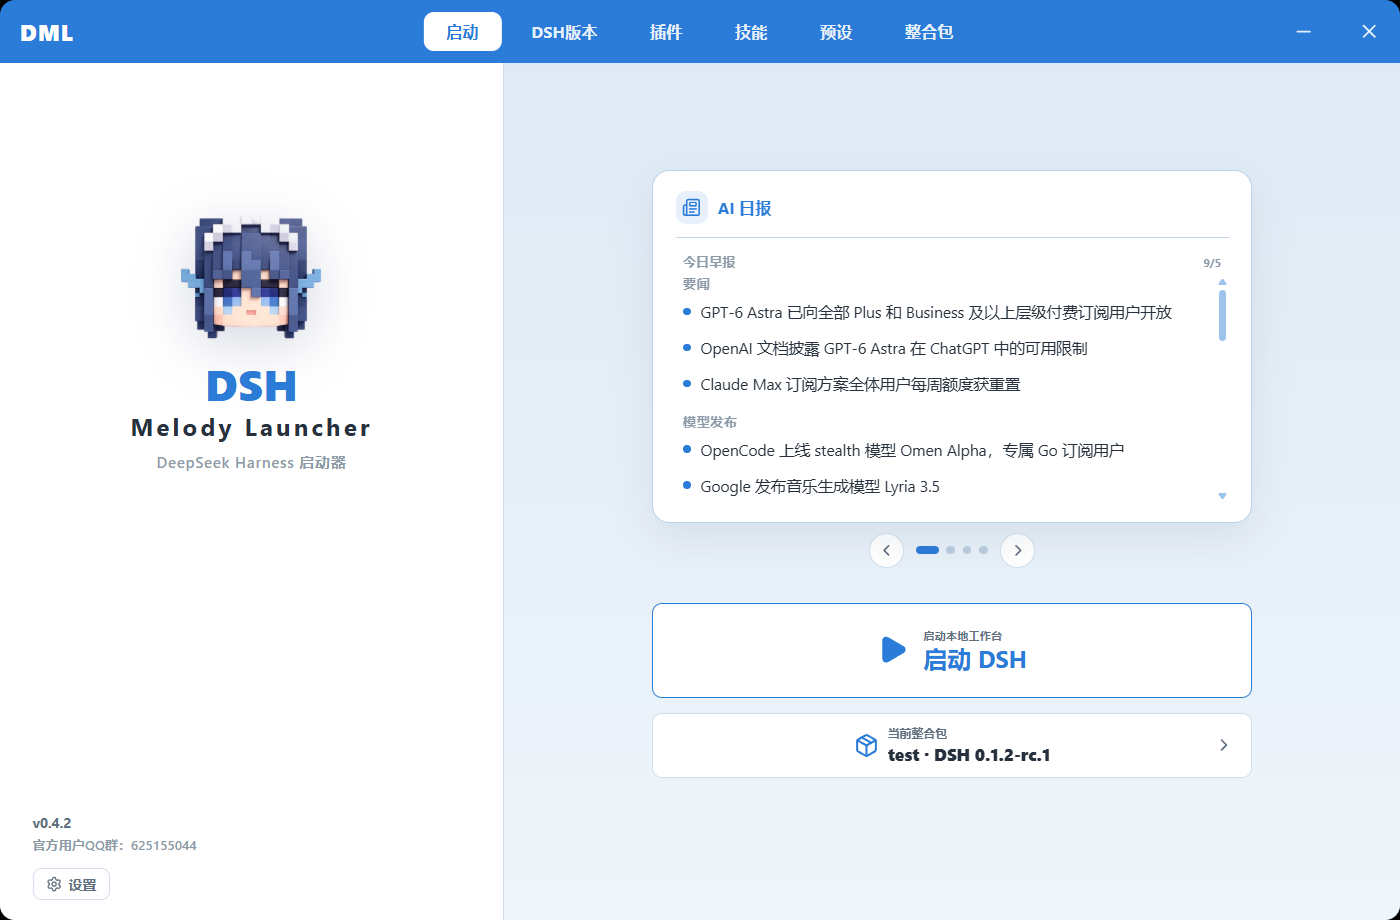
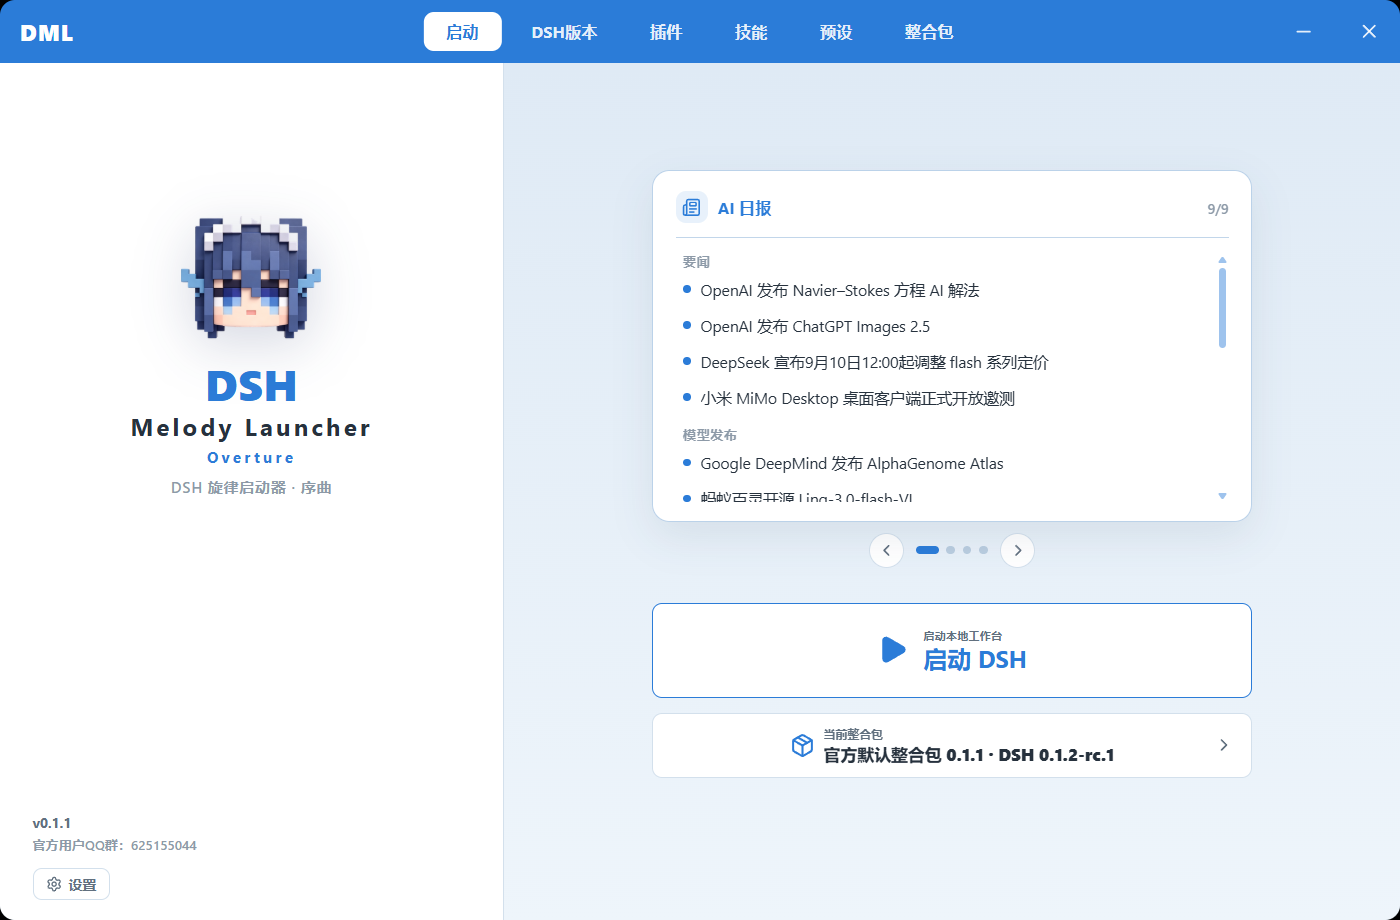
docs: v0.1.1 中英 README 重写（官方默认整合包/快照搬运/Office 技能/分段按钮叙事）+ 9 张真机新截图替换旧图

diff --git a/README.md b/README.md
@@ -6,7 +6,7 @@
 
 **DSH-Melody-Launcher: Overture —— 面向 [DeepSeek Harness](https://github.com/deepseek-ai/deepseek-harness) 的 Windows 桌面启动器（C 端分支）**
 
-以「整合包」为核心：每个整合包都是一套**真隔离环境**，版本、插件、技能、预设互不串扰，下载即用、无需预装 Node.js。
+下载一个 exe，首启自动带入「官方默认整合包」：DSH 本体、Web 全家桶界面、Office 文档技能全部就位，点「启动 DSH」就能对话、做 PPT、写周报 —— 无需预装任何东西。
 
 <br />
 
@@ -14,7 +14,7 @@
 [![Build](https://img.shields.io/github/actions/workflow/status/Miyazawai/DSH-Melody-Launcher-Overture/build.yml?branch=main&style=for-the-badge&logo=githubactions&logoColor=white&label=build)](https://github.com/Miyazawai/DSH-Melody-Launcher-Overture/actions/workflows/build.yml)
 [![Platform](https://img.shields.io/badge/Platform-Windows%20x64-0078D6?style=for-the-badge&logo=windows&logoColor=white)](https://github.com/Miyazawai/DSH-Melody-Launcher-Overture/releases)
 [![Upstream](https://img.shields.io/badge/上游-rirko%2Fdsh--melody--launcher-6C7BFF?style=for-the-badge&logo=github&logoColor=white)](https://github.com/rirko/dsh-melody-launcher)
-[![Tests](https://img.shields.io/badge/tests-692%20passing-6E9F18?style=for-the-badge&logo=vitest&logoColor=white)](https://github.com/Miyazawai/DSH-Melody-Launcher-Overture)
+[![Tests](https://img.shields.io/badge/tests-728%20passing-6E9F18?style=for-the-badge&logo=vitest&logoColor=white)](https://github.com/Miyazawai/DSH-Melody-Launcher-Overture)
 
 [![Electron](https://img.shields.io/badge/Electron-43-47848F?style=flat-square&logo=electron&logoColor=white)](https://www.electronjs.org/)
 [![React](https://img.shields.io/badge/React-19-61DAFB?style=flat-square&logo=react&logoColor=black)](https://react.dev/)
@@ -29,7 +29,7 @@
 ---
 
 > [!NOTE]
-> **关于本仓库**：「序曲（Overture）」是 [rirko/dsh-melody-launcher](https://github.com/rirko/dsh-melody-launcher) 的 **C 端分支**，对应「暴力整合包模式」产品线。上游仓库是启动器的主线；本分支聚焦**个人玩家的整合包体验**——零包引导、按包隔离、一键启动，玩法上更「开箱即玩」。架构与词汇表见上游主线，本分支的增量决策记录在各提交与 `CONTEXT.md`。
+> **关于本仓库**：「序曲（Overture）」是 [rirko/dsh-melody-launcher](https://github.com/rirko/dsh-melody-launcher) 的 **C 端分支**，对应「暴力整合包模式」产品线。上游仓库是启动器的主线；本分支聚焦**个人玩家的整合包体验**——开箱即玩、按包隔离、整包搬运。架构与词汇表见上游主线，本分支的增量决策记录在 `CONTEXT.md` 与 [CHANGELOG.md](CHANGELOG.md)。
 
 ---
 
@@ -37,63 +37,73 @@
 
 **DSH 旋律启动器：序曲** 把 DeepSeek Harness（DSH）的下载、部署、插件管理和启动流程收拢到一个图形界面里。交互方式参考《我的世界》**忘却的旋律启动器**：在真正启动之前，先在一个地方把版本、插件、技能、预设都安排妥当。
 
-「序曲」这一版的核心概念是**整合包（Modpack）**：
+「序曲」的核心概念是**整合包（Modpack）**：
 
-> 每个整合包 = 一套真隔离环境（DSH 版本 + 插件 + 技能 + 预设 + 配置 + 会话），互不串扰。你可以同时养着「稳定工作包」和「尝鲜测试包」，随点随切。
+> 每个整合包 = 一套真隔离环境（DSH 版本 + 插件 + 技能 + 预设 + 配置 + 会话），互不串扰。你可以同时养着「稳定工作包」和「尝鲜测试包」，随点随切；还能把整包发给朋友，对方导入即可启动。
 
 | 原本要做的事 | 用启动器之后 |
 | --- | --- |
-| 装 Node.js → 装 npm → `npx @deepseek-ai/dsh` | 下载一个 exe，点「下载安装 DSH」 |
-| 手改 `.credentials.yaml` 填 API Key | 界面里输入，自动写入并设为 0600 权限 |
+| 装 Node.js → 装 npm → `npx @deepseek-ai/dsh` | 下载一个 exe，首启全自动部署 |
 | 翻 GitHub 找插件、手敲 `dsh plugin add` | 内置 DSH Market / 技能市场，一键安装 |
+| 想让 AI 帮你做 PPT / 周报 / 表格 | 官方默认整合包自带 Office 技能，装好就能用 |
 | 多套环境互相污染，删了重装 | 新建一个整合包，天然隔离，互不影响 |
+| 把自己的配置折腾半天分享给朋友 | 导出 = 整个环境打包成 zip，对方导入即可启动 |
 | 开终端、记命令、盯输出 | 一个按钮启动，进程与日志全程托管 |
+
+## v0.1.1 更新亮点
+
+- **官方默认整合包** —— 首次启动自动获取导入：DSH 本体 + Web 全家桶界面 + Office 文档技能（Word / Excel / PPT）+ AI 去味写作技能，开箱即用。可以删，删了随时一键「恢复官方整合包」。
+- **快照式导出 / 导入** —— 把整合包连插件本体、依赖、技能、配置整个打成 zip；导出前自动剔除 API Key、会话记录等个人数据，绝对路径自动改写。**对方导入即可启动，全程不联网重装依赖。**
+- **Office 文档能力** —— 官方包内置 [OfficeCLI](https://github.com/iOfficeAI/OfficeCLI) 技能四件套与引擎本体（随包搬运）：对 AI 说一句「把这季度数据做成汇报 PPT」，就能拿到可继续编辑的 `.pptx` / `.docx` / `.xlsx`。
+- **运行态分段按钮** —— 浏览器页面关掉了？首页大按钮左段停止服务、右段一键重开网页。
+- **删除更安全** —— 整合包删除改为原子回收站：服务还挂着时删除会整体失败并明确报错，绝不会出现「记录还在、环境没了」的半删状态。
 
 ## 界面速览
 
 | | |
 | --- | --- |
-| **启动页** —— AI 日报（当日全部栏目分组滚动）、一键启动、当前整合包快切 | **DSH 版本** —— 已装版本与预发布版一目了然，一键下载 |
-| ![启动页](docs/screenshots/shot-01-home.png) | ![DSH 版本](docs/screenshots/shot-02-versions.png) |
-| **插件** —— 启停开关管理已装插件 | **DSH Market** —— 3300+ 精选插件，搜索 / 分类 / 检查更新 |
-| ![插件](docs/screenshots/shot-03-plugins.png) | ![DSH Market](docs/screenshots/shot-07-dsh-market.png) |
-| **技能市场** —— 1900+ 技能，按分类浏览安装 | **预设** —— 内置四种工作模式，已装预设启停管理 |
-| ![技能市场](docs/screenshots/shot-08-skill-market.png) | ![预设](docs/screenshots/shot-05-presets.png) |
-| **整合包** —— 新建 / 导入 / 切换 / 导出，计数实时刷新 | **新建整合包** —— 命名 + 必选 DSH 版本，即建即用 |
-| ![整合包](docs/screenshots/shot-06-packs.png) | ![新建整合包](docs/screenshots/shot-09-new-pack.png) |
+| **启动页** —— AI 日报全栏目滚动、一键启动、当前整合包快切 | **运行中** —— 左段停止服务，右段一键重开网页 |
+| ![启动页](docs/screenshots/shot-01-home.png) | ![运行态](docs/screenshots/shot-09-running-split.png) |
+| **整合包** —— 官方默认包带「官方」徽标，计数实时探测 | **删除二次确认** —— 点删除变红「确定删除」，说清删什么留什么 |
+| ![整合包](docs/screenshots/shot-02-packs.png) | ![删除确认](docs/screenshots/shot-03-delete-arm.png) |
+| **技能管理** —— 官方包自带 Office 四件套与去味写作，可启停可卸载 | **技能市场** —— 1900+ 技能按分类浏览安装 |
+| ![技能管理](docs/screenshots/shot-05-skills-installed.png) | ![技能市场](docs/screenshots/shot-04-skill-market.png) |
+| **插件** —— 核心组合层受保护，启停不删本体 | **DSH Market** —— 3400+ 精选插件，搜索 / 分类 / 检查更新 |
+| ![插件](docs/screenshots/shot-06-plugins.png) | ![DSH Market](docs/screenshots/shot-08-dsh-market.png) |
+| **DSH 版本** —— 已装与可下载版本一目了然，切换只在整合包页 | |
+| ![DSH 版本](docs/screenshots/shot-07-versions.png) | |
 
 ## 核心特性
+
+### 官方默认整合包：下载即有
+
+- **首启自动获取** —— 启动器后台核对版本，自动从 GitHub Release 拉取官方包 zip 并导入，进度可见，全程零操作
+- **内容基线** —— Web 全家桶界面（任务板 / Git 图 / 皮肤中心 / 社区插件…）、Office 文档技能（含 33MB 引擎随包搬运）、去 AI 味中文写作技能
+- **可删可恢复** —— 官方包没有特权，删了整合包页出现「恢复官方整合包」按钮；启动器更新带来新版官方包时，新包自动出现、旧包并存不覆盖
 
 ### 整合包：真隔离环境
 
 - **按包隔离** —— 每个整合包有独立的派生家目录，DSH 版本、插件、技能、预设、配置、会话全套隔离，互不串扰
-- **新建即选版本** —— 新建整合包时必选 DSH 版本，缺的版本自动下载，不会动当前环境
-- **导入 / 导出** —— 整合包可打包分享、可导入他人配置，`packs.json` 唯一清单管理
+- **快照搬运** —— 导出 = 家目录整个进 zip（自动剔除 API Key / 会话 / 用量等个人数据，绝对路径相对化，符号链接重建），导入即可启动
 - **零包引导态** —— 删光所有整合包不慌：三步引导卡带你从零重建，不会偷偷生成兜底包
-- **实时计数** —— 整合包列表实时探测包家目录，市场 / npm 装的东西不会显示 0
 
 ### 零依赖部署
 
-- **一键安装 DSH** —— 未检测到本地 DSH 时，首页主按钮自动切换为「下载安装 DSH」
-- **自动准备 Node.js** —— 自动下载便携运行时（SHA-256 校验、断点续传），不需要系统装 Node
-- **自动准备 pnpm** —— 首次管理插件时安装启动器专用 pnpm，不污染全局
+- **自动准备 Node.js / pnpm** —— 启动器自带便携运行时（SHA-256 校验、断点续传），不需要系统装 Node
+- **自动准备 DSH** —— 导入的包缺 DSH 版本时弹窗确认后自动补装
+- **GitHub 加速** —— DSH 版本列表、插件目录、官方包下载统一走「用户镜像 → 直连 → 公共镜像」候选链，大陆网络可用
 
 ### 启动与进程管理
 
-- **一个按钮启动** —— 启动器以 `dsh --profile <整合包> --no-open --port N` 的形态拉起对应包，服务就绪自动打开网页
+- **一个按钮启动** —— 以 `dsh --profile <整合包> --no-open --port N` 拉起对应包，服务就绪自动打开网页；网页关了就点首页右段「打开网页」
 - **进程生命周期托管** —— 启动、停止、实时日志；退出启动器时同步收尾 DSH 及伴随进程
-- **失败原因直达** —— DSH 异常退出时，命令、退出码、stderr 以错误弹窗呈现，不用翻日志猜
+- **失败原因直达** —— DSH 异常退出时，命令、退出码、stderr 以错误弹窗呈现，还能一键复制「修复引导提示词」交给 AI
 
 ### 统一资源市场
 
 - **DSH Market** —— 精选插件目录（awesome-dsh-plugin 数据源），搜索、分类、检查更新
-- **技能市场** —— 按 `dsh-skill` Topic 聚合的技能仓库，严格校验 `SKILL.md` 结构后安装
-- **启停 ≠ 卸载** —— 开关只控制下次启动是否加载；只有显式卸载才删除本体
-- **核心组合层保护** —— DSH 核心 Bundle 在主进程层面禁止停用，防止一键把自己玩坏
-
-### AI 日报
-
-首页每日聚合当日 AI 资讯，**全部栏目**分组展示：要闻 / 模型发布 / 开发生态 / 产品应用 / 技术与洞察 / 行业动态 / 前瞻与传闻，卡片内直接滚动阅读。
+- **技能市场** —— 1900+ 技能按分类浏览，严格校验 `SKILL.md` 结构后安装
+- **启停 ≠ 卸载** —— 开关只控制下次启动是否加载；卸载按钮连文件一起删，核心组合层禁止停用
 
 ## 快速开始
 
@@ -104,17 +114,21 @@
 > [!IMPORTANT]
 > 便携版目前**未使用商业代码签名证书**。首次运行时 Windows SmartScreen 可能提示来源未知 —— 请确认文件确实来自本仓库 Release 页面后，选择「更多信息 → 仍要运行」。
 
-### 2. 首次部署
+### 2. 等官方包就位
 
-打开启动器，没检测到 DSH 时首页主按钮就是「下载安装 DSH」，点一下即可。全程**不需要预装 DSH / Node.js / npm**，缺什么启动器自己补什么。
+首次启动会自动下载导入「官方默认整合包」（约 128MB，含 DSH 本体与全部资源；整合包页顶部有进度横幅）。完成后首页显示当前整合包为「官方默认整合包」。
 
-### 3. 新建你的第一个整合包
+### 3. 填 Key，启动
 
-进入「**整合包**」页 → 点「**新建整合包**」→ 起个名字、选一个 DSH 版本 → 「**创建**」。然后回启动页点「**启动 DSH**」，你的专属隔离环境就跑起来了。
+「设置」里填入 DeepSeek / 其他模型 API Key（写入当前包私有凭据，不随包分享）→ 回启动页点「**启动 DSH**」→ 浏览器自动打开 Web 工作台，开聊。
 
-### 4. 配置 API Key
+### 4. 试试 Office 技能
 
-在界面里填入 DeepSeek API Key，启动器会写入对应整合包的官方凭据文件，权限 0600。
+对 AI 说：「用 officecli 创建一个 pptx，标题是季度汇报，再加一页要点」。几秒后拿到可继续编辑的 `.pptx`。
+
+### 5. 分享你的整合包
+
+整合包页点「导出」→ 把 zip 发给朋友 → 对方「导入整合包」即可启动，你的插件、技能、配置原样重现（个人数据已自动剔除）。
 
 ## 从源码运行
 
@@ -132,23 +146,26 @@ npm run package:win   # 打包 Windows 便携 exe
 
 > [!TIP]
 > **发版**：推 `v*` 标签即可触发 CI 自动打包并把便携 exe 挂到 Release：
-> `git tag -a v0.1.0 -m "v0.1.0" && git push origin v0.1.0`
-> 版本号与 `package.json` 的 `version` 保持一致，exe 文件名由它决定。
+> `git tag -a v0.1.1 -m "v0.1.1" && git push origin v0.1.1`
+> 同时把 `official-pack-v<版本>.zip`（整合包页导出后改名）上传到对应 Release，官方包机制按 `OFFICIAL_PACK_VERSION` 常量核对。
 
 ## 数据与配置
 
 | 内容 | 位置 |
 | --- | --- |
 | 启动器数据（packs.json / 设置 / 运行时） | `%APPDATA%\dsh-launcher` |
-| 整合包家目录 | `%APPDATA%\dsh-launcher\dsh-packs\<包id>` |
+| 整合包家目录（含包自带工具 `tools/`） | `%APPDATA%\dsh-launcher\dsh-packs\<包id>` |
 | DSH 版本缓存 | `%APPDATA%\dsh-launcher\dsh-runtime\versions` |
+| 机器级托管工具（OfficeCLI 兜底下载） | `%APPDATA%\dsh-launcher\dsh-tools` |
 | 默认 DSH 家目录 | `~/.dsh` |
+
+> 导出整合包时，API Key、会话记录、用量统计、任务板等**个人数据一律不进包**。
 
 ## 与上游的关系
 
-- 上游主线：[rirko/dsh-melody-launcher](https://github.com/rirko/dsh-melody-launcher) —— 启动器主线开发与正式 Release
-- 本分支：C 端「暴力整合包模式」产品线，聚焦整合包隔离与个人玩家体验
-- 两边共享核心架构（派生家目录咽喉点、packs.json 唯一清单、导入前置供给等）；本分支的增量以「首公里上手体验」为准绳：**零依赖部署、版本隔离、进程管理**
+- 上游主线：[rirko/dsh-melody-launcher](https://github.com/rirko/dsh-melody-launcher) —— 启动器主线开发与插件目录 PR 的目标仓库
+- 本仓库：序曲（Overture）独立发布线 —— 便携 exe 与官方默认整合包都发布在这里的 Releases
+- 两边共享核心架构（派生家目录咽喉点、packs.json 唯一清单等）；本分支的增量以「首公里上手体验」为准绳：**零依赖部署、官方包开箱即玩、整包搬运**
 
 ## 联系与反馈
 

diff --git a/README.en.md b/README.en.md
@@ -6,12 +6,13 @@
 
 **A Windows desktop launcher for [DeepSeek Harness](https://github.com/deepseek-ai/deepseek-harness) — the C-end branch of [rirko/dsh-melody-launcher](https://github.com/rirko/dsh-melody-launcher)**
 
-Built around **modpacks**: every modpack is a truly isolated environment — its own DSH version, plugins, skills, presets, config and sessions. Download one executable and go; no Node.js required up front.
+Download one executable: the first run auto-imports the **official default modpack** — DSH itself, a full web UI, and Office document skills. Hit Launch and you can chat, build slide decks and write reports. Nothing to preinstall.
 
 [![Release](https://img.shields.io/github/v/release/Miyazawai/DSH-Melody-Launcher-Overture?style=for-the-badge&logo=github&color=6C7BFF)](https://github.com/Miyazawai/DSH-Melody-Launcher-Overture/releases/latest)
 [![Build](https://img.shields.io/github/actions/workflow/status/Miyazawai/DSH-Melody-Launcher-Overture/build.yml?branch=main&style=for-the-badge&logo=githubactions&logoColor=white&label=build)](https://github.com/Miyazawai/DSH-Melody-Launcher-Overture/actions/workflows/build.yml)
 [![Platform](https://img.shields.io/badge/Platform-Windows%20x64-0078D6?style=for-the-badge&logo=windows&logoColor=white)](https://github.com/Miyazawai/DSH-Melody-Launcher-Overture/releases)
 [![Upstream](https://img.shields.io/badge/upstream-rirko%2Fdsh--melody--launcher-6C7BFF?style=for-the-badge&logo=github&logoColor=white)](https://github.com/rirko/dsh-melody-launcher)
+[![Tests](https://img.shields.io/badge/tests-728%20passing-6E9F18?style=for-the-badge&logo=vitest&logoColor=white)](https://github.com/Miyazawai/DSH-Melody-Launcher-Overture)
 
 **[简体中文](README.md) · English**
 
@@ -20,32 +21,42 @@ Built around **modpacks**: every modpack is a truly isolated environment — its
 ---
 
 > [!NOTE]
-> **Overture** is the C-end ("暴力整合包模式" / modpack-first) line of [rirko/dsh-melody-launcher](https://github.com/rirko/dsh-melody-launcher). The upstream repo hosts the mainline; this branch focuses on the first-km experience for individual players: zero-dependency onboarding, per-pack isolation, and one-click launch. See the [Chinese README](README.md) for the full documentation.
+> **Overture** is the C-end ("modpack-first") line of [rirko/dsh-melody-launcher](https://github.com/rirko/dsh-melody-launcher). The upstream repo hosts the mainline; this branch focuses on the first-km experience for individual players: zero-dependency onboarding, per-pack isolation, whole-pack sharing. See the [Chinese README](README.md) for the full documentation.
 
-## Highlights
+## What's new in v0.1.1
 
-- **Modpacks = real isolation** — each pack gets a derived home directory; DSH version, plugins, skills, presets and sessions never leak across packs. Create / import / switch / export with live counters.
-- **Zero-dependency onboarding** — the launcher downloads DSH, a portable Node.js runtime (SHA-256 verified, resumable) and a private pnpm automatically. Nothing to preinstall.
-- **Curated markets** — DSH Market (3,300+ featured plugins) and a Skill Market (1,900+ skills), with strict `SKILL.md` validation and enable/disable that never deletes files.
-- **One-click launch** — starts `dsh --profile <pack> --no-open --port N`, opens the browser when ready, and reports exit code / stderr as a toast if DSH crashes.
-- **AI Daily** — the home page aggregates the day's AI news into all sections, scrollable in place.
+- **Official default modpack** — auto-fetched and imported on first run: DSH + full web UI + Office document skills (Word / Excel / PowerPoint) + a Chinese anti-AI-slop writing skill. Deletable, and restorable anytime with one click.
+- **Snapshot export / import** — a modpack zips up whole (plugin bodies, dependencies, skills, config included). Personal data (API keys, sessions, usage) is stripped and absolute paths rewritten before shipping. Your friend imports the zip and it just runs — no network reinstall.
+- **Office skills powered by [OfficeCLI](https://github.com/iOfficeAI/OfficeCLI)** — the engine binary travels inside the pack, so "turn this quarter's data into a deck" produces an editable `.pptx` out of the box.
+- **Split launch button** — while the service runs, the home button splits: stop on the left, reopen the web page on the right.
+- **Atomic pack deletion** — deleting a pack whose files are still held by a running DSH now fails as a whole instead of half-wiping the environment.
 
 ## Screenshots
 
-| Home | DSH Versions |
+| Home | Running (split button) |
 | --- | --- |
-| ![Home](docs/screenshots/shot-01-home.png) | ![Versions](docs/screenshots/shot-02-versions.png) |
-| **DSH Market** | **Skill Market** |
-| ![DSH Market](docs/screenshots/shot-07-dsh-market.png) | ![Skill Market](docs/screenshots/shot-08-skill-market.png) |
-| **Modpacks** | **New Modpack** |
-| ![Modpacks](docs/screenshots/shot-06-packs.png) | ![New Modpack](docs/screenshots/shot-09-new-pack.png) |
+| ![Home](docs/screenshots/shot-01-home.png) | ![Running](docs/screenshots/shot-09-running-split.png) |
+| **Modpacks** (official badge + live counters) | **Delete confirmation** (arm-then-confirm, never a dialog) |
+| ![Modpacks](docs/screenshots/shot-02-packs.png) | ![Delete arm](docs/screenshots/shot-03-delete-arm.png) |
+| **Skills** (Office suite included, uninstall built in) | **Skill Market** (1,900+ skills) |
+| ![Skills](docs/screenshots/shot-05-skills-installed.png) | ![Skill Market](docs/screenshots/shot-04-skill-market.png) |
+| **Plugins** (core bundles protected) | **DSH Market** (3,400+ featured plugins) |
+| ![Plugins](docs/screenshots/shot-06-plugins.png) | ![DSH Market](docs/screenshots/shot-08-dsh-market.png) |
+
+## Highlights
+
+- **Modpacks = real isolation** — each pack gets a derived home directory; DSH version, plugins, skills, presets and sessions never leak across packs.
+- **Zero-dependency onboarding** — the launcher downloads DSH, a portable Node.js runtime (SHA-256 verified, resumable) and a private pnpm automatically. GitHub traffic goes through a mirror-first candidate chain for mainland-China networks.
+- **Curated markets** — DSH Market (3,400+ featured plugins) and a Skill Market (1,900+ skills), with strict `SKILL.md` validation and enable/disable that never deletes files.
+- **One-click launch** — starts `dsh --profile <pack> --no-open --port N`, opens the browser when ready; crashes surface as a dialog with exit code, stderr and a copyable "fix prompt".
+- **AI Daily** — the home page aggregates the day's AI news into all sections, scrollable in place.
 
 ## Getting started
 
 1. Grab `DSH-Launcher-*-portable.exe` from [**Releases**](https://github.com/Miyazawai/DSH-Melody-Launcher-Overture/releases). The binary is not code-signed yet, so SmartScreen may warn — verify it comes from this repo, then choose "More info → Run anyway".
-2. Click **Install DSH** on the home page (the launcher fetches everything it needs).
-3. Go to the **Modpacks** tab → **New Modpack** → name it and pick a DSH version → **Create**.
-4. Back on the home page, hit **Launch DSH**. Fill in your DeepSeek API key when prompted (stored with 0600 permissions).
+2. Wait for the first-run import of the official modpack (~128 MB, progress shown on the Modpacks page).
+3. Add your DeepSeek (or other) API key in **Settings** — keys are stored per-pack and never leave your machine in exports.
+4. Hit **Launch DSH**. Try: *"create a pptx titled Quarterly Report with one bullet slide"* — the Office skills handle it.
 
 ## Build from source
 
@@ -57,9 +68,28 @@ cd DSH-Melody-Launcher-Overture
 npm install
 npm run dev           # dev mode
 npm test              # Vitest
+npm run build         # typecheck + bundle
 npm run package:win   # portable exe
 ```
 
+> Releasing: push a `v*` tag to trigger CI (build + attach the portable exe to the Release), and upload the renamed pack export `official-pack-v<version>.zip` to the same Release — the launcher's official-pack mechanism resolves it by the `OFFICIAL_PACK_VERSION` constant.
+
+## Data locations
+
+| What | Where |
+| --- | --- |
+| Launcher state (packs.json / settings / runtimes) | `%APPDATA%\dsh-launcher` |
+| Modpack homes (incl. bundled `tools/`) | `%APPDATA%\dsh-launcher\dsh-packs\<pack-id>` |
+| DSH version cache | `%APPDATA%\dsh-launcher\dsh-runtime\versions` |
+| Machine-level managed tools (OfficeCLI fallback download) | `%APPDATA%\dsh-launcher\dsh-tools` |
+| Default DSH home | `~/.dsh` |
+
+## Upstream & contact
+
+- Mainline: [rirko/dsh-melody-launcher](https://github.com/rirko/dsh-melody-launcher) — plugin-catalog PRs still target upstream.
+- This repo: the Overture release line — portable exe and official modpack zips ship from its Releases.
+- QQ group **625155044** · issues welcome with launcher version and repro steps.
+
 ---
 
-Non-profit project. The launcher is a local tool only; all DSH-related assets belong to their respective owners.
+Non-profit side project. All DSH-related assets belong to their respective rights holders.
